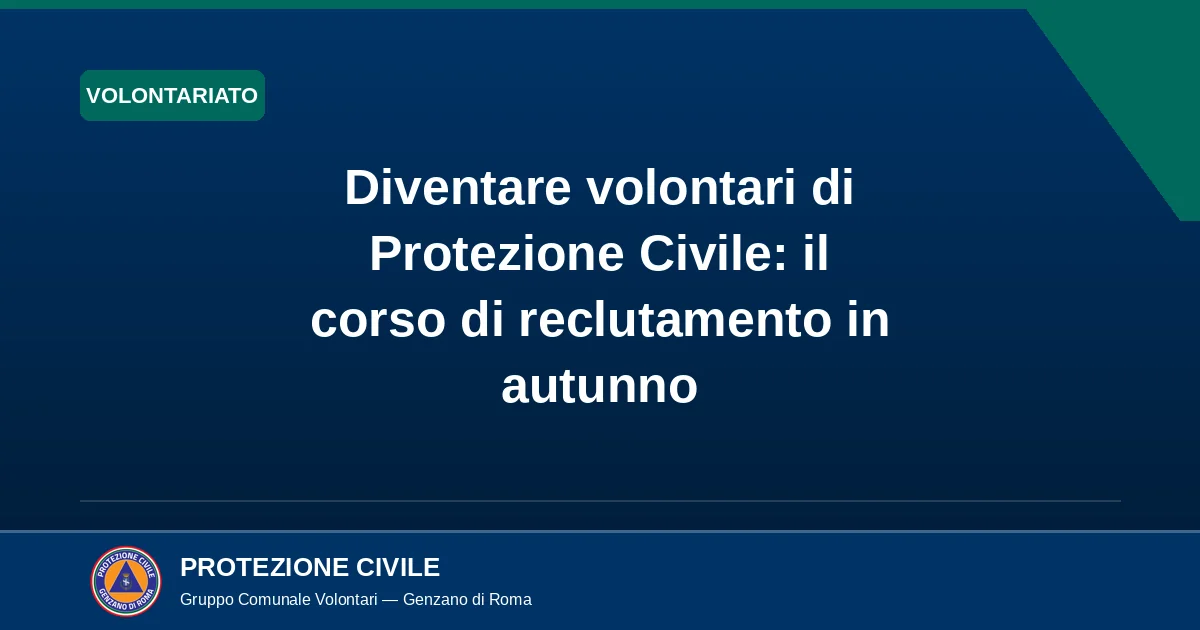
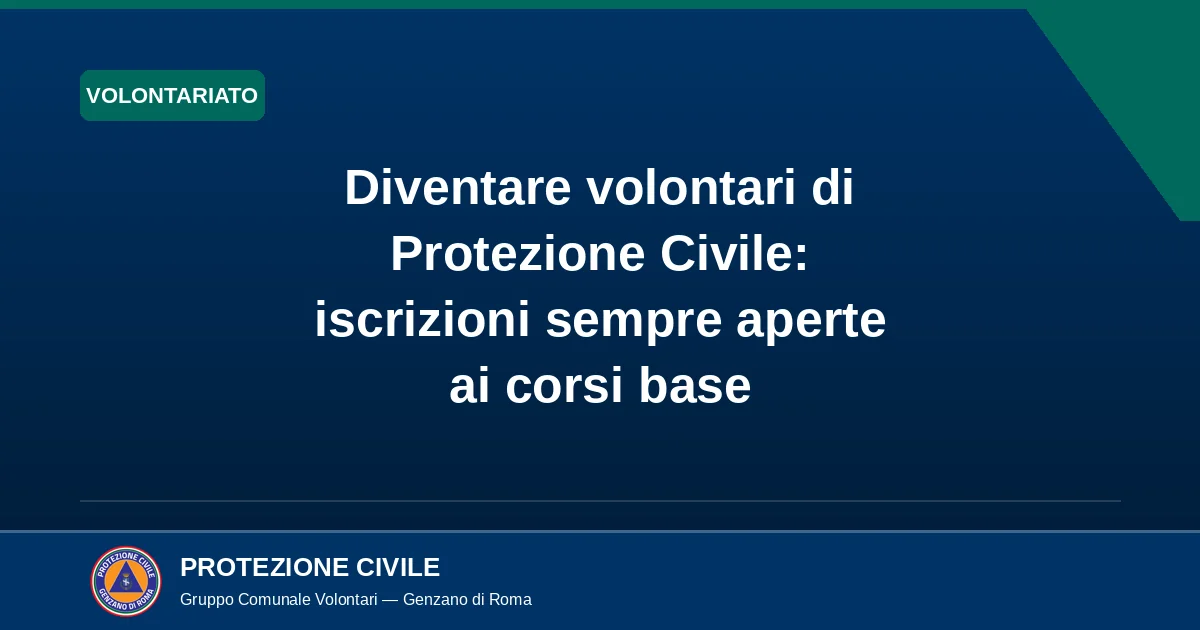
Corsi base: iscrizioni sempre aperte, niente finestra di settembre
L'articolo sul reclutamento presentava settembre/autunno come unica
finestra per iscriversi ai corsi base. Le iscrizioni sono invece
aperte tutto l'anno: i corsi si organizzano in base alle
disponibilità dei formatori e dei nuovi iscritti.

- Riscritti titolo, description, lede e sezione finale (ora
  'Quando si svolgono i corsi') dell'articolo del 20/08.
- Rigenerata la cover tipografica col nuovo titolo.
- Allineato l'articolo agenda del 31/08 (formazione volontari,
  invito, etichetta link) che riproponeva lo stesso messaggio.
- Fix linguistici dal gate: 'mettere al servizio', punteggiatura
  dell'inciso.

Claude-Session: https://claude.ai/code/session_013LzrFRZunWUirMfKJba8Zs

Changed region(s): [[0.3083, 0.3619, 0.7092, 0.4524], [0.2467, 0.4825, 0.74, 0.5429], [0.37, 0.573, 0.6475, 0.6635]]

diff --git a/content/comunicazioni/2026-08-20-volontariato-pc-reclutamento-autunno.md b/content/comunicazioni/2026-08-20-volontariato-pc-reclutamento-autunno.md
@@ -1,7 +1,7 @@
 ---
-title: "Diventare volontari di Protezione Civile: il corso di reclutamento in autunno"
+title: "Diventare volontari di Protezione Civile: iscrizioni sempre aperte ai corsi base"
 date: 2026-08-20T00:01:00+02:00
-description: "A settembre riapriranno le iscrizioni ai corsi base del Gruppo Comunale Volontari di Protezione Civile. Chi può partecipare e cosa aspettarsi."
+description: "Le iscrizioni ai corsi base del Gruppo Comunale Volontari di Protezione Civile sono sempre aperte. Chi può partecipare e cosa aspettarsi."
 badge: "Volontariato"
 priorita: "normale"
 autore: "Gruppo Comunale Volontari PC Genzano"
@@ -13,7 +13,7 @@ allegati: []
 draft: false
 ---
 
-L'esperienza di un mese di agosto a pieno regime operativo conferma una verità semplice: **il sistema di Protezione Civile italiano si regge sul volontariato**. In autunno il Gruppo Comunale Volontari di Protezione Civile di Genzano di Roma apre le iscrizioni al corso base. Un'occasione per chi vuole mettere a servizio del proprio territorio competenze, tempo, buona volontà.
+L'esperienza di un mese di agosto a pieno regime operativo conferma una verità semplice: **il sistema di Protezione Civile italiano si regge sul volontariato**. Le iscrizioni al corso base del Gruppo Comunale Volontari di Protezione Civile di Genzano di Roma sono **aperte tutto l'anno**. Un'occasione per chi vuole mettere al servizio del proprio territorio competenze, tempo, buona volontà.
 
 ## Chi può diventare volontario
 
@@ -65,9 +65,9 @@ Il volontario di PC, quando attivato formalmente dall'autorità di PC, ha diritt
 
 La struttura operativa del Gruppo è **senza compensi personali**: il lavoro è volontario, ma il sistema garantisce le tutele previste dalla legge.
 
-## Le date del corso
+## Quando si svolgono i corsi
 
-Le iscrizioni al corso base 2026 apriranno a **settembre**. I contatti e le modalità saranno pubblicati sul sito e sui social ufficiali del Gruppo. Per segnalare interesse in anticipo, consultare la pagina [Diventa volontario](/diventa-volontario/).
+Le iscrizioni sono **sempre aperte**, in ogni periodo dell'anno: non esiste una finestra unica per candidarsi. I corsi vengono organizzati in base alle disponibilità dei formatori e dei nuovi iscritti. Le date si concordano di volta in volta, così ogni edizione parte quando c'è un gruppo pronto a seguirla. Per iscriversi o chiedere informazioni, consultare la pagina [Diventa volontario](/diventa-volontario/) o i contatti del Gruppo.
 
 ## Per approfondire
 

diff --git a/content/comunicazioni/2026-08-31-chiusura-agosto-settembre-agenda.md b/content/comunicazioni/2026-08-31-chiusura-agosto-settembre-agenda.md
@@ -35,7 +35,7 @@ A partire dalla **seconda metà di settembre**, il Gruppo avvia i primi contatti
 - **organizzare** visite al Gruppo e giornate formative.
 
 ### 4. Formazione volontari
-A settembre si apre la **nuova stagione di formazione**: corso base per nuovi volontari, aggiornamenti per i già iscritti (primo soccorso, BLS-D, radio, cartografia, AIB).
+A settembre riprende a pieno ritmo la **formazione**: corsi base per nuovi volontari e aggiornamenti per i già iscritti (primo soccorso, BLS-D, radio, cartografia, AIB). Le iscrizioni ai corsi restano **aperte tutto l'anno**: le edizioni si organizzano in base alle disponibilità di formatori e nuovi iscritti.
 
 ### 5. Preparazione alla stagione idrogeologica
 Settembre è un mese di transizione: il Gruppo rivede il Piano di Emergenza locale con l'Amministrazione, aggiorna le mappe dei punti critici, verifica le attrezzature per il rischio idrogeologico.
@@ -54,12 +54,12 @@ Il sito e i canali social del Gruppo aggiornano in tempo reale le attività oper
 
 ## Un invito
 
-Settembre è un mese in cui molti cittadini si "riconnettono" con la vita comunitaria dopo l'estate. È il momento giusto per **iscriversi al corso base** del Gruppo, per **informarsi** sulle attività di PC, per **partecipare** a incontri pubblici. Ogni nuovo volontario è una risorsa per l'intera comunità.
+Settembre è un mese in cui molti cittadini si "riconnettono" con la vita comunitaria dopo l'estate. È un buon momento per **iscriversi al corso base** del Gruppo — le iscrizioni sono comunque aperte tutto l'anno — per **informarsi** sulle attività di PC, per **partecipare** a incontri pubblici. Ogni nuovo volontario è una risorsa per l'intera comunità.
 
 ## Per approfondire
 
 - [Diventare volontari](/diventa-volontario/)
-- [Volontariato — reclutamento autunno 2026](/comunicazioni/2026-08-20-volontariato-pc-reclutamento-autunno/)
+- [Diventare volontari: iscrizioni sempre aperte ai corsi base](/comunicazioni/2026-08-20-volontariato-pc-reclutamento-autunno/)
 - [Calendario esercitazioni autunnali](/comunicazioni/2026-08-25-esercitazioni-autunnali-calendario/)
 - [Social Media Policy](/social-media-policy/)
 
